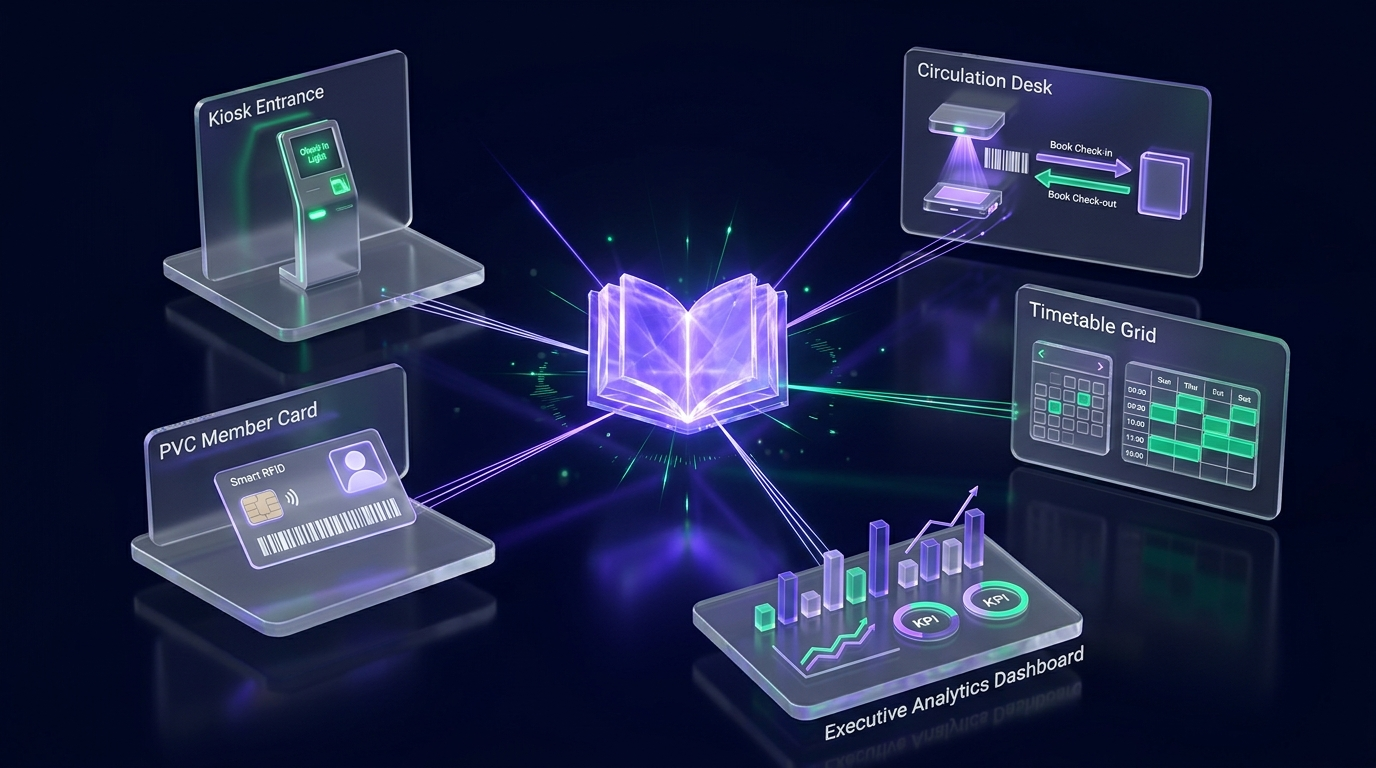
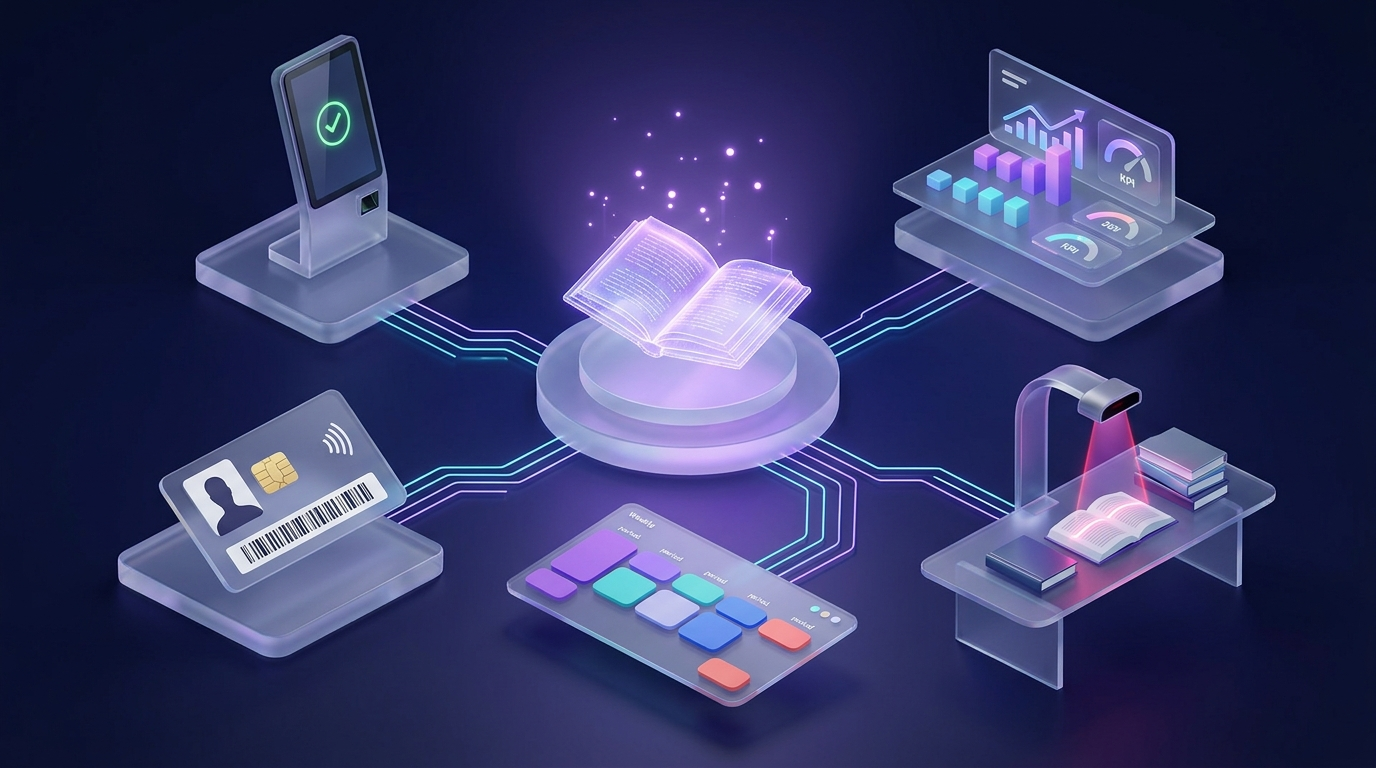
feat(landing): refresh 3D ecosystem render to match reference screenshot

diff --git a/src/features/landing/EnivacLandingPage.tsx b/src/features/landing/EnivacLandingPage.tsx
@@ -1,4 +1,5 @@
 import React, { useState } from 'react';
+import ecosystemImage from '/images/enivac-ecosystem.jpg?url';
 import { LandingNavbar } from './components/LandingNavbar';
 import { HeroSection } from './components/HeroSection';
 import { FeaturesSection } from './components/FeaturesSection';
@@ -65,7 +66,7 @@ export const EnivacLandingPage: React.FC = () => {
         <div className="relative rounded-3xl overflow-hidden border border-slate-200/80 shadow-2xl bg-white p-2 sm:p-4 group">
           <div className="relative rounded-2xl overflow-hidden border border-slate-100 shadow-inner">
             <img
-              src="/images/enivac-ecosystem.jpg"
+              src={ecosystemImage}
               alt="Interconnected Smart Library Operating System Modules"
               className="w-full h-auto max-h-[460px] object-cover object-center group-hover:scale-[1.02] transition-transform duration-700"
             />
